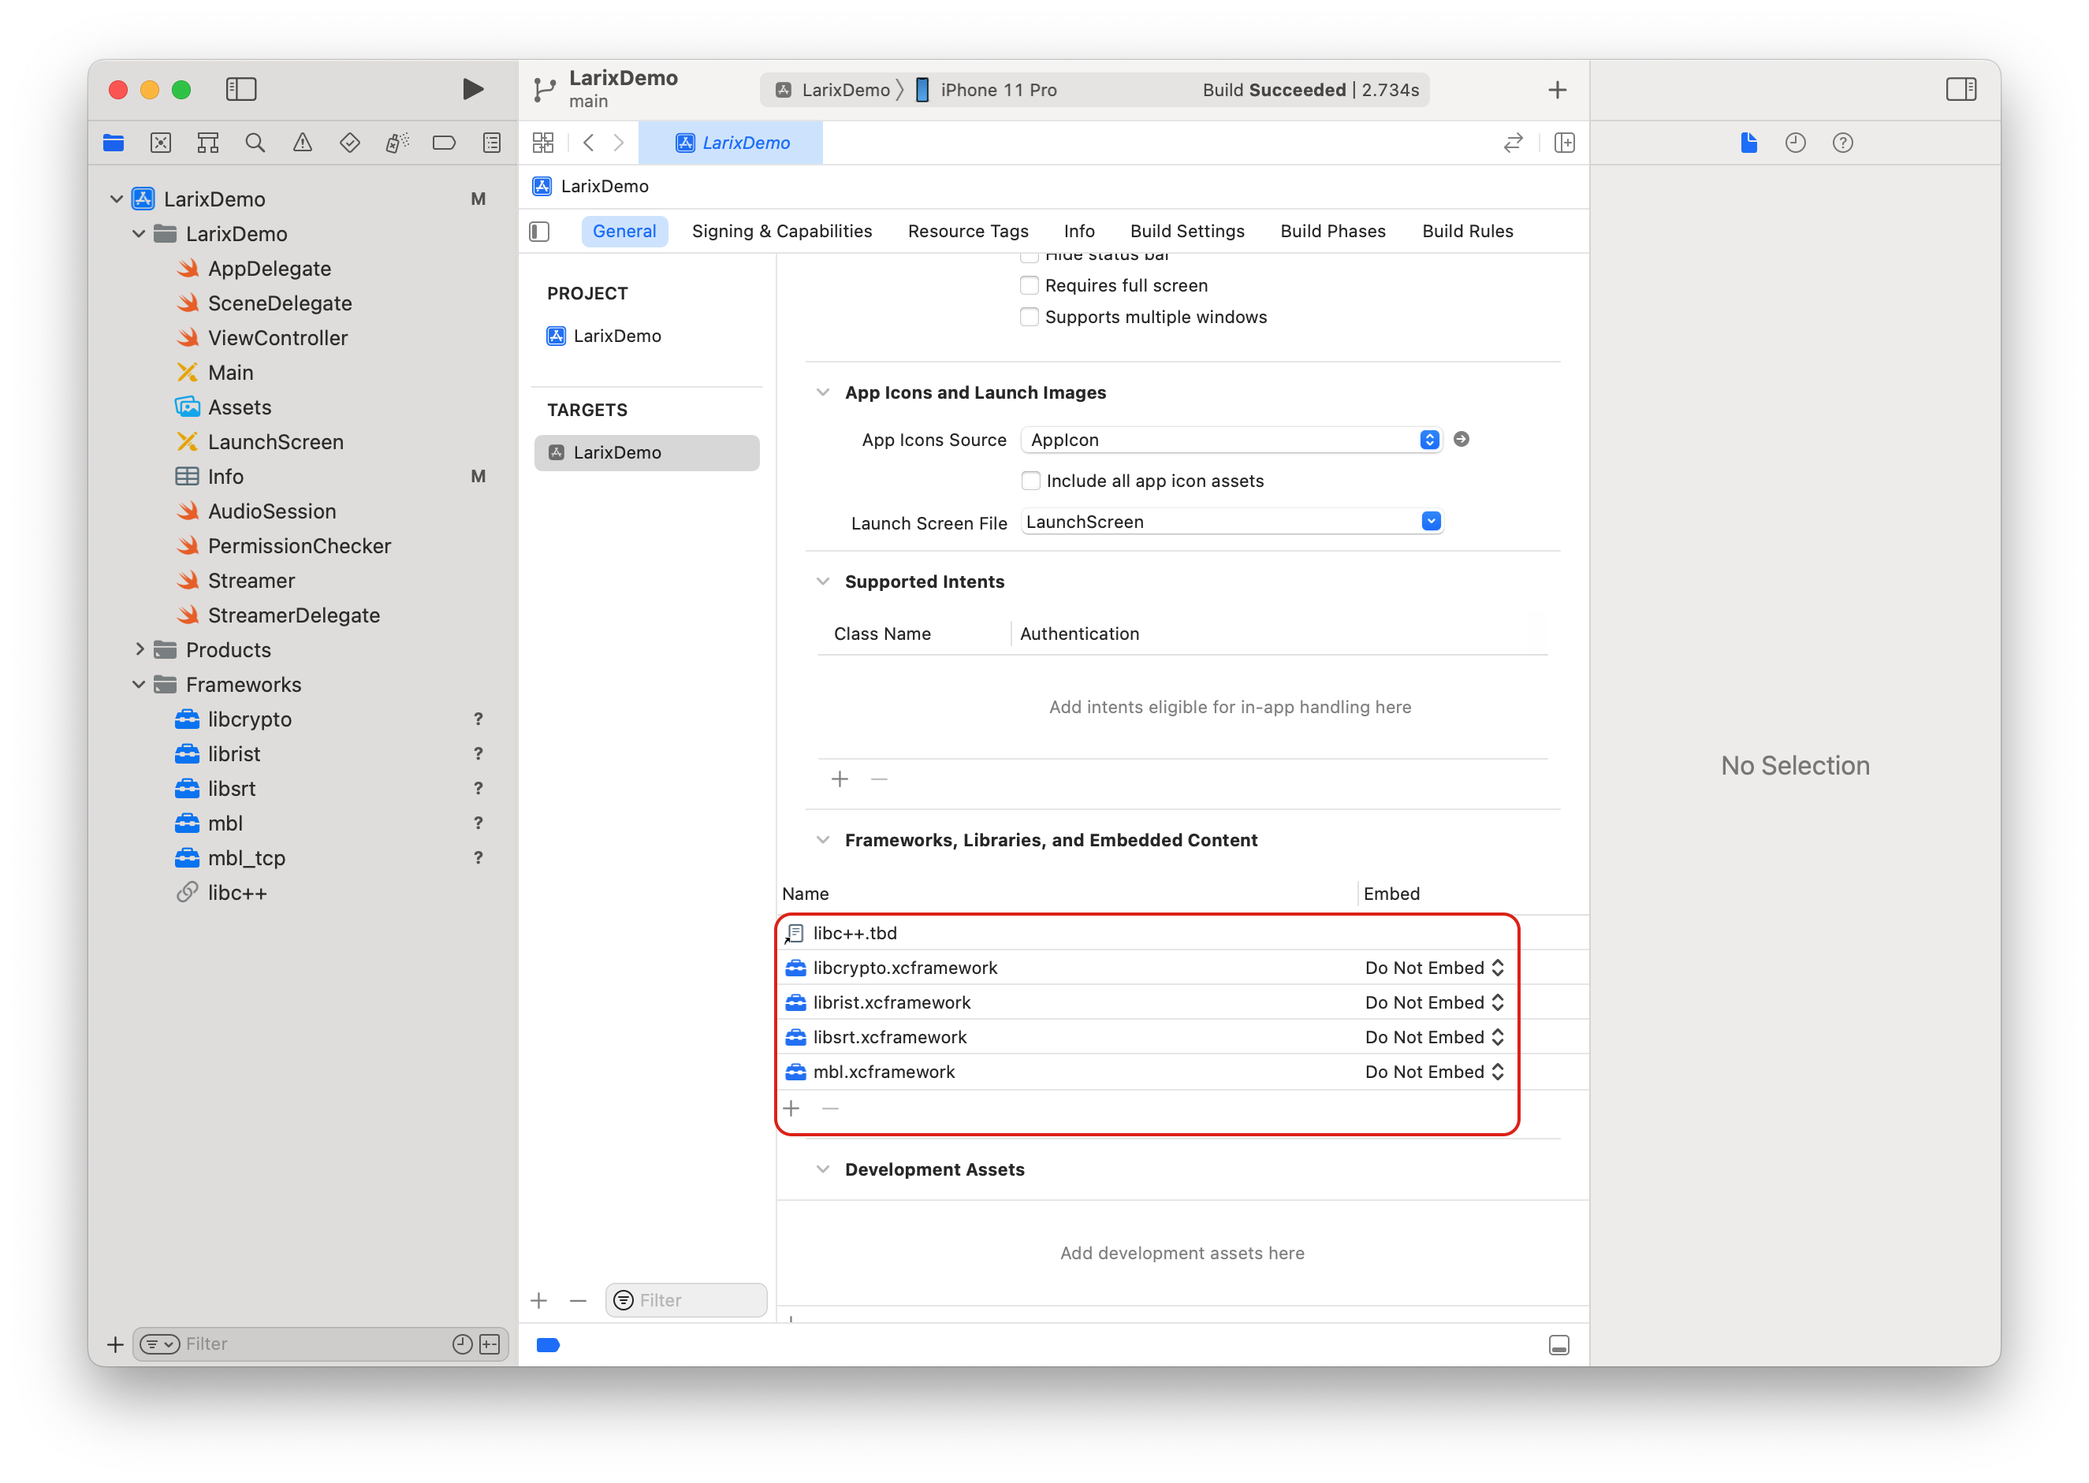
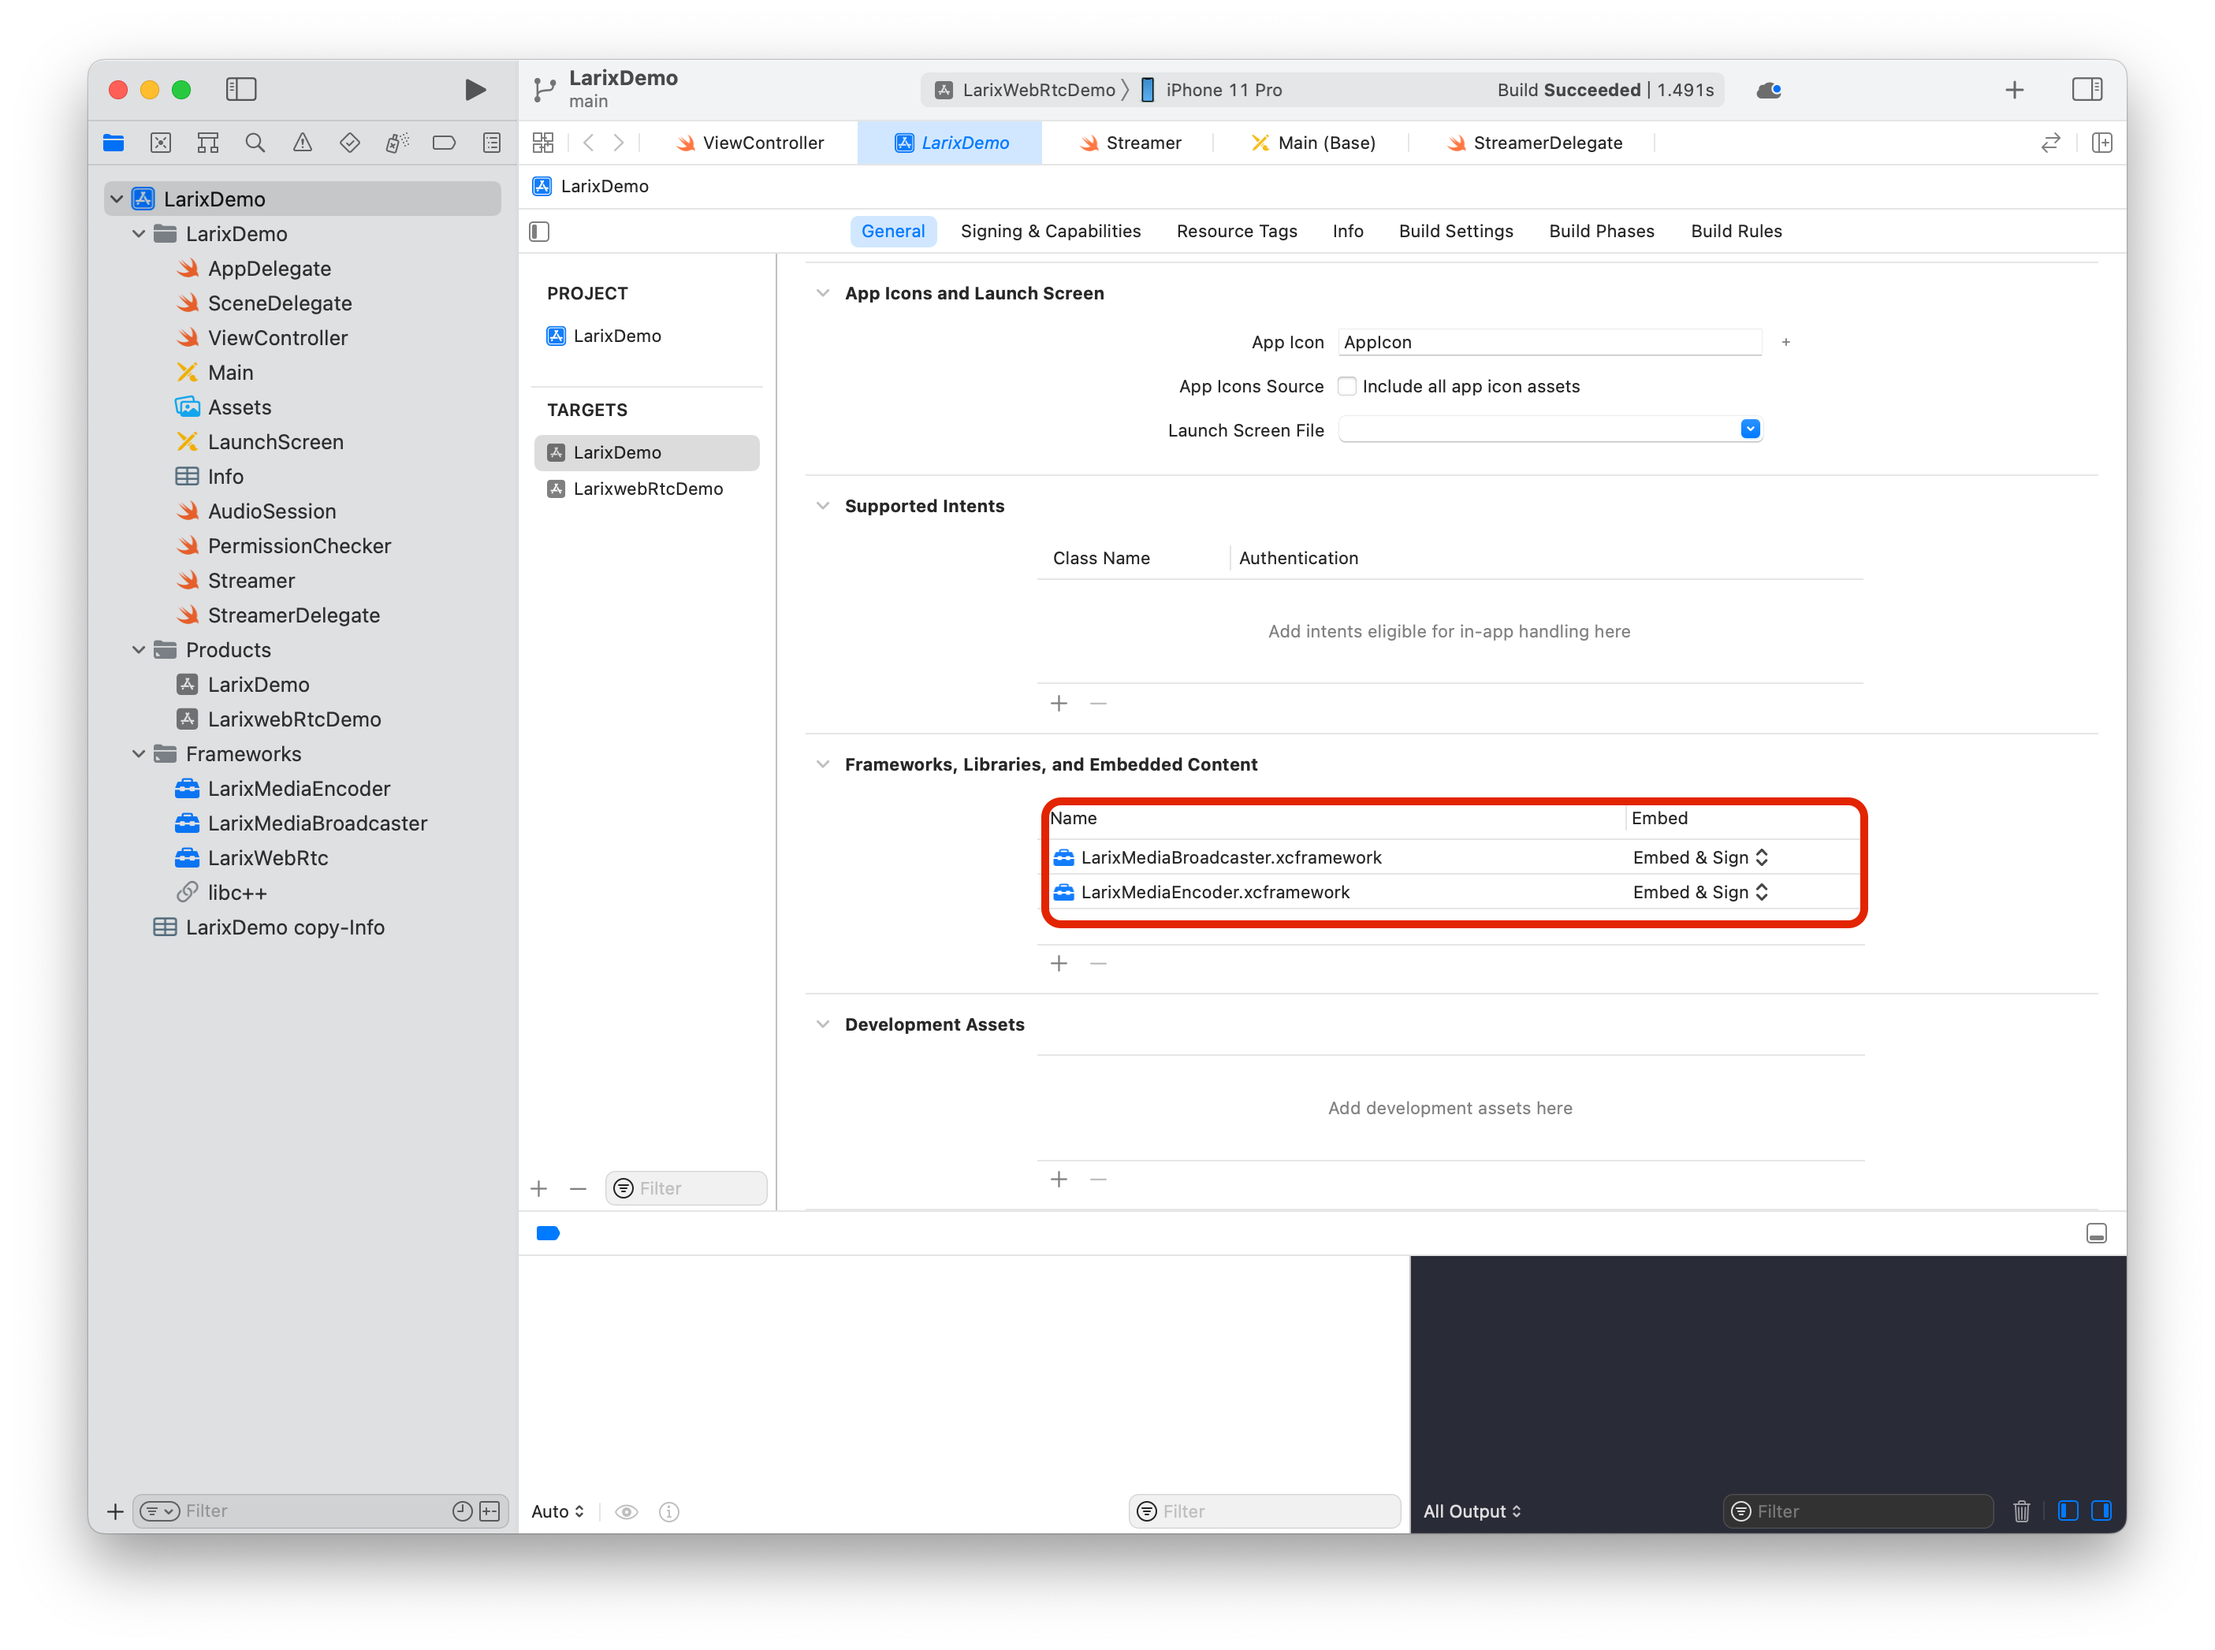
Updated docs to use with LarixMediaBroadcaster instead of mbl

diff --git a/ios-larix-demo/StepByStepGuide.md b/ios-larix-demo/StepByStepGuide.md
@@ -9,16 +9,21 @@ On next step, specify project location (XCode will create folder with product na
 Copy needed .xcframework files to project directory
 
 ## Project settings
-Select project file in XCode Project navigator, then select item in Targets secion. On General tab, scroll down to "Frameworks, Libraries and Embedded Content" section. Add mbl.xcframework (click Plus sign below, then choose "Add Files" from "Add Other" drop-down in a bottom, specify mbl.xcframework file).
-Depnding on needed protocol support, you can choose either version with only RTMP and RTSP protocols (mbl\_tcp.xcframework), or variant with SRT or RIST support in addition to RTMP/RTSP (mbl\_srt.xcframework or mbl\_rist.xcframework for one of them or mbl.xcframework for both).
-For SRT and RIST support you also must add libsrt.xcframework or librist.xcframework accordingly. For SRT you also need libcrypto.xcframework and libc++.tbd 
+Select project file in XCode Project navigator, then select item in Targets secion. On General tab, scroll down to "Frameworks, Libraries and Embedded Content" section. Add LarixMediaBroadcaster.xcframework (click Plus sign below, then choose "Add Files" from "Add Other" drop-down in a bottom, specify LarixMediaBroadcaster.xcframework file). 
+Depnding on needed protocol support, you can choose either version with only RTMP and RTSP protocols (LarixMediaBroadcaster\_tcp.xcframework), or variant with SRT or RIST support in addition to RTMP/RTSP (LarixMediaBroadcaster\_srt.xcframework or LarixMediaBroadcaster\_rist.xcframework for one of them or LarixMediaBroadcaster.xcframework for both).
+
+Add LarixMediaEncoder.xcfamework the same way. 
+
 ![Libraries](screenshots/libraries.png)
 
 
 ### Bridging header
-Create file YourProject-Brigding-Header.h and put following line to it
+Create file YourProject-Brigding-Header.h and put following lines to it
 
-`#import "mbl-iOS/mbl.h"`
+```
+#import <LarixMediaEncoder/LarixMediaEncoder.h>
+#import <LarixMediaBroadcaster/LarixMediaBrodcaster.h>
+```
 
 
 Then in project settings go to "Build Settings" tab, scroll down to "Swift Compiler - General" and specify above file name in "Objective-C Bridging Header" line. 
